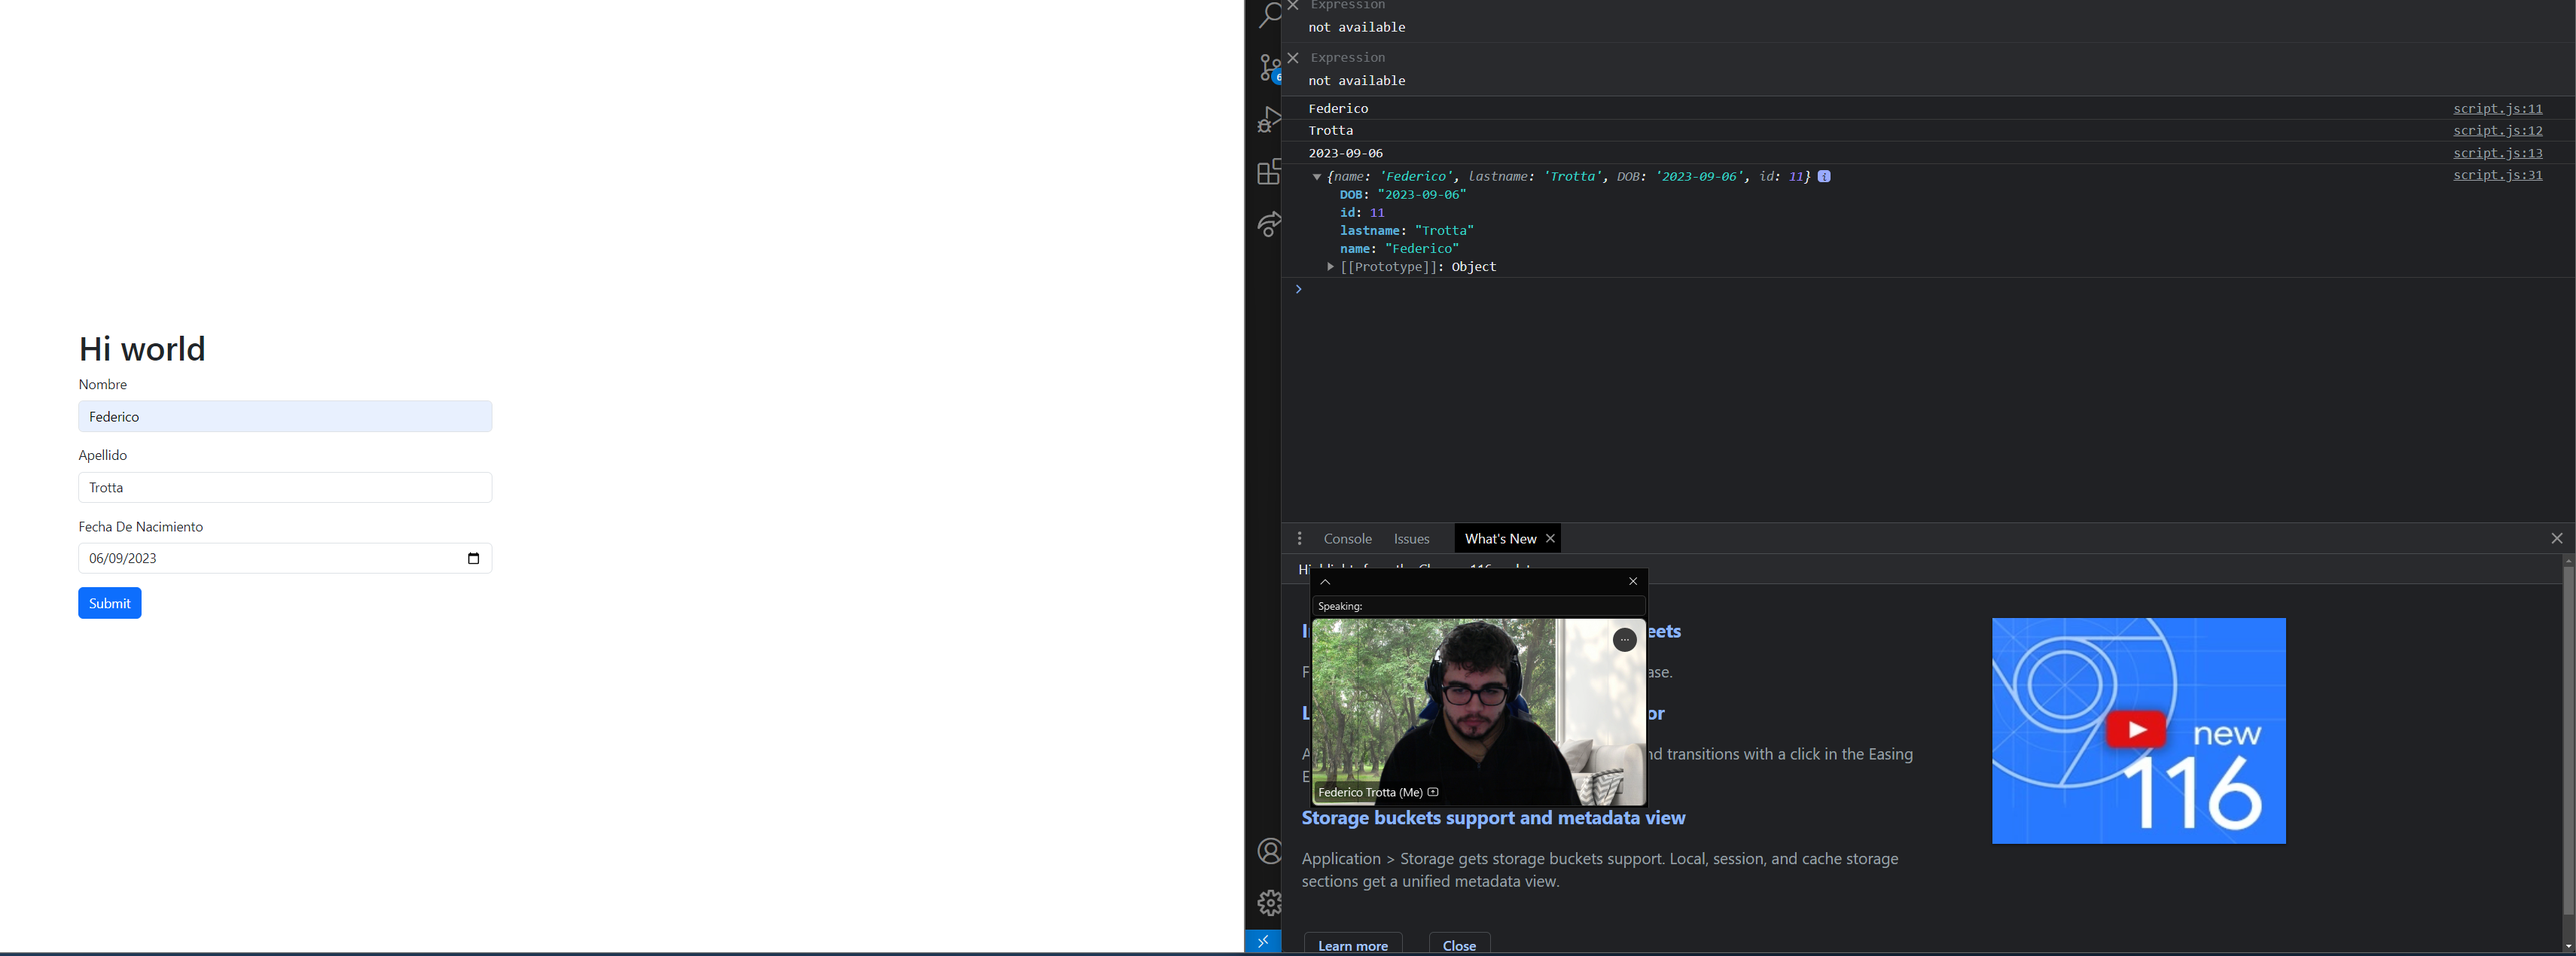
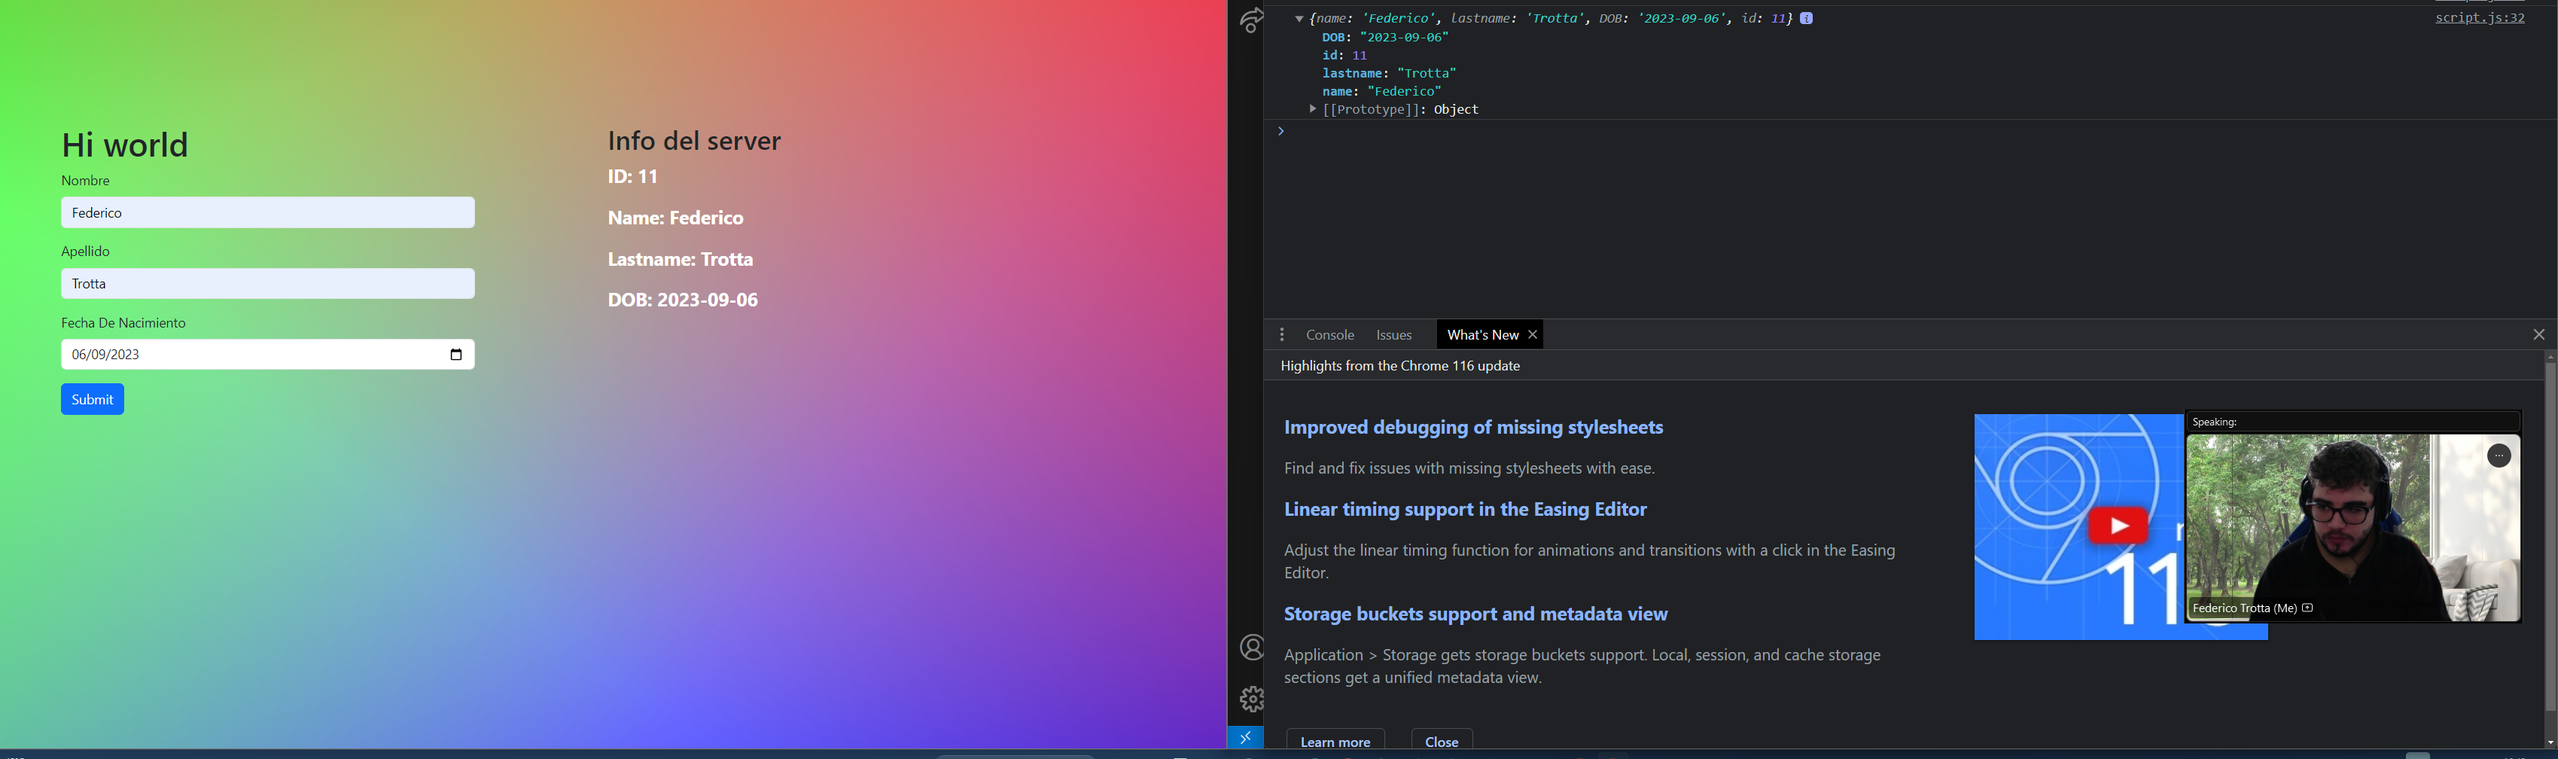
font familiy changed

diff --git a/index.html b/index.html
@@ -16,12 +16,20 @@
     <!-- My css and JS -->
     <link rel="stylesheet" href="styles.css" />
     <script defer src="script.js"></script>
+
+    <!-- font family -->
+    <link rel="preconnect" href="https://fonts.googleapis.com" />
+    <link rel="preconnect" href="https://fonts.gstatic.com" crossorigin />
+    <link
+      href="https://fonts.googleapis.com/css2?family=Handjet:wght@200&family=Roboto:ital,wght@1,500&display=swap"
+      rel="stylesheet"
+    />
   </head>
   <body>
     <div class="container">
       <div class="row">
         <div class="col-6">
-          <h1>Hi world</h1>
+          <h2>Hi world</h2>
           <form id="myForm">
             <div class="mb-3">
               <label for="name" class="form-label">Nombre</label>
@@ -46,11 +54,12 @@
 
         <div class="col-6">
           <h2>Info del server</h2>
-          <p id="response_id"></p>
-          <p id="response_name"></p>
-          <p id="response_lastname"></p>
-          <p id="response_DOB"></p>
-
+          <div id="info_del_server">
+            <p id="response_id"></p>
+            <p id="response_name"></p>
+            <p id="response_lastname"></p>
+            <p id="response_DOB"></p>
+          </div>
         </div>
       </div>
     </div>

diff --git a/styles.css b/styles.css
@@ -10,6 +10,12 @@ body {
     ),
     linear-gradient(127deg, rgba(0, 255, 0, 0.8), rgba(0, 255, 0, 0) 70.71%),
     linear-gradient(336deg, rgba(0, 0, 255, 0.8), rgba(0, 0, 255, 0) 70.71%);
+  font-family: "Handjet", cursive;
+  font-family: "Roboto", sans-serif;
+}
+
+h2 {
+  color: #fff;
 }
 
 form {
